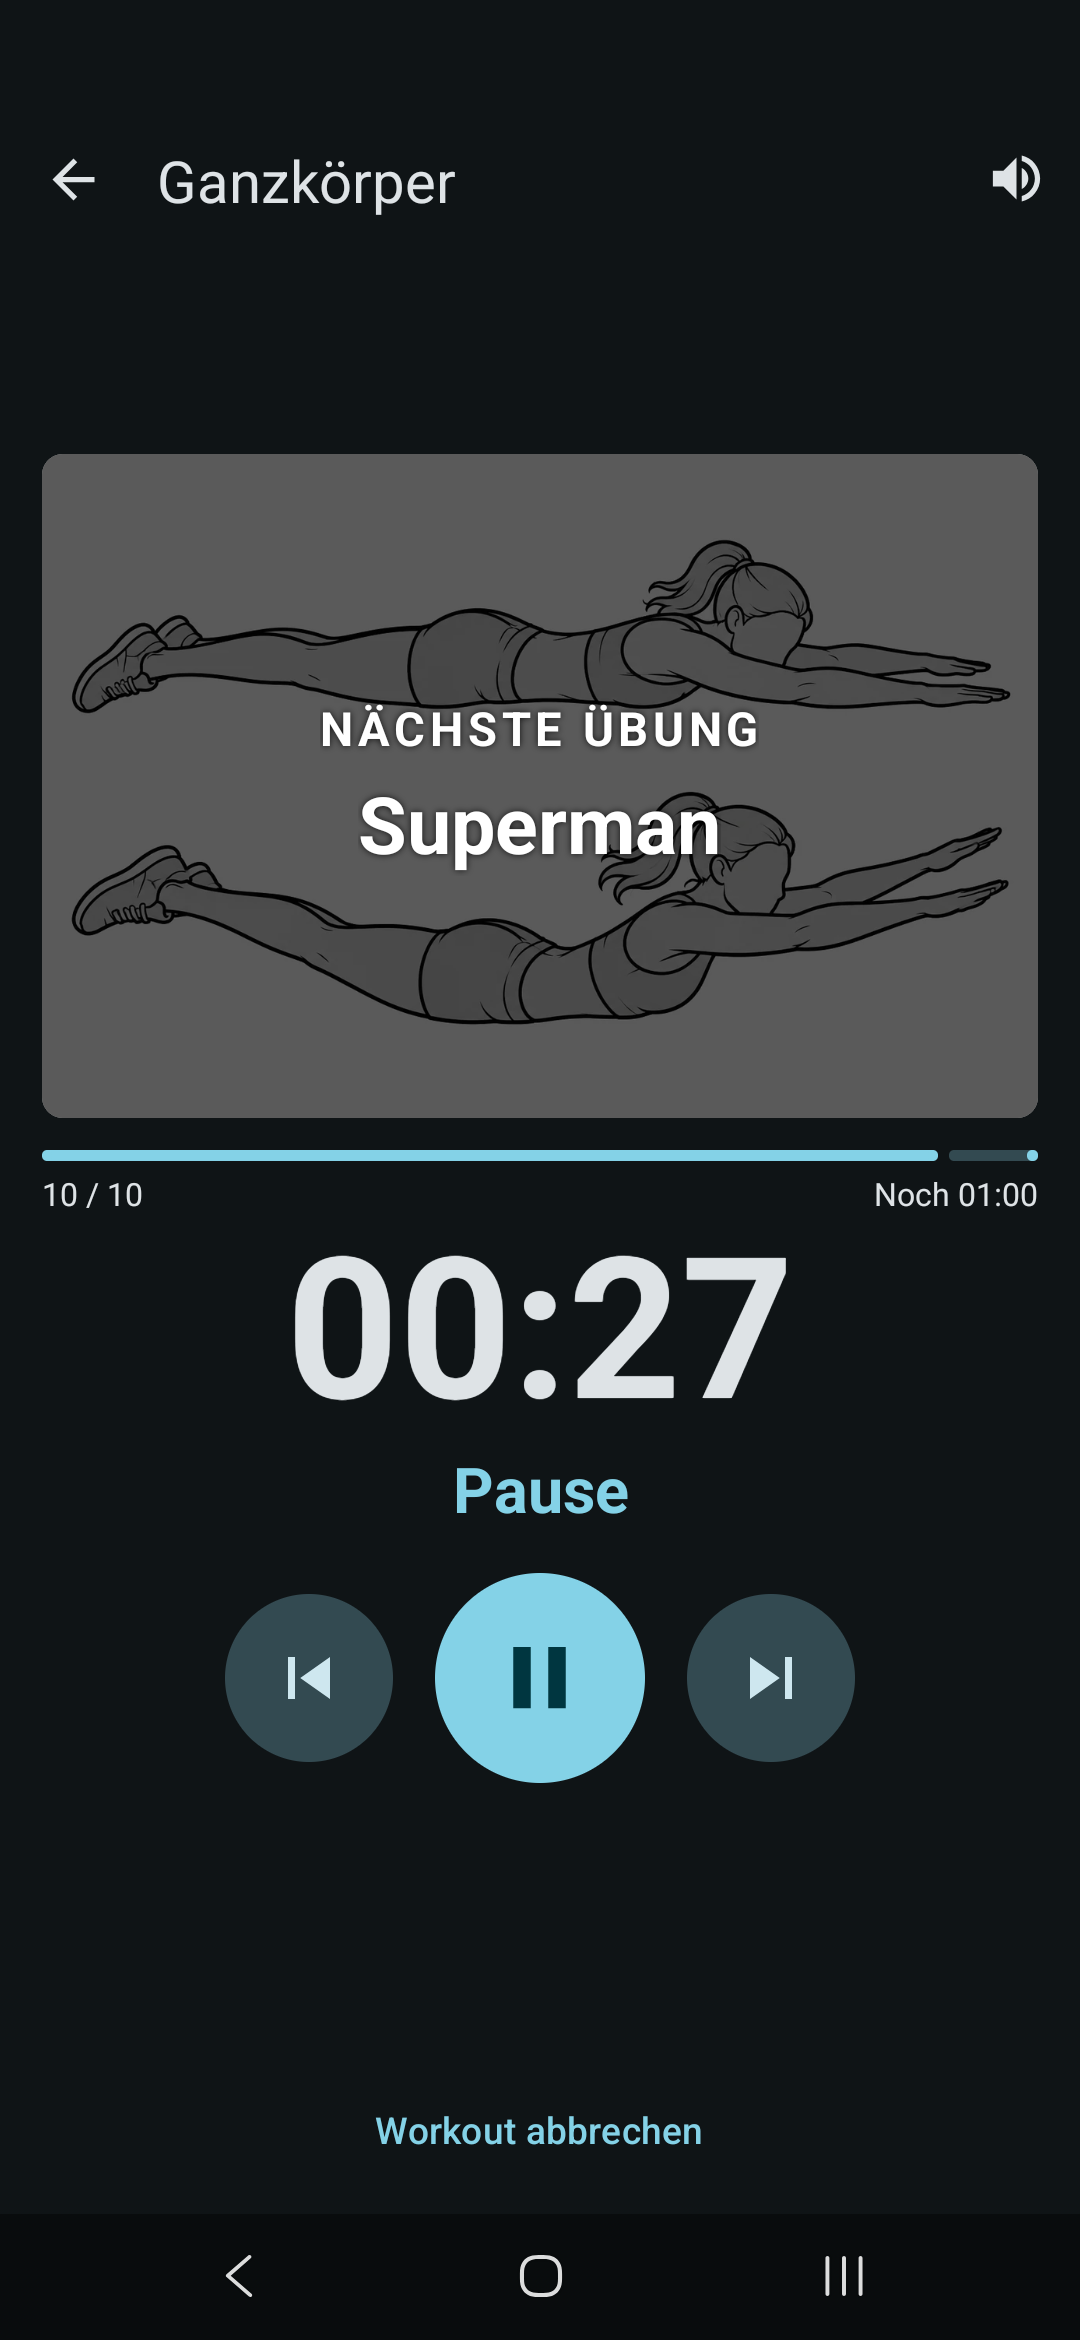
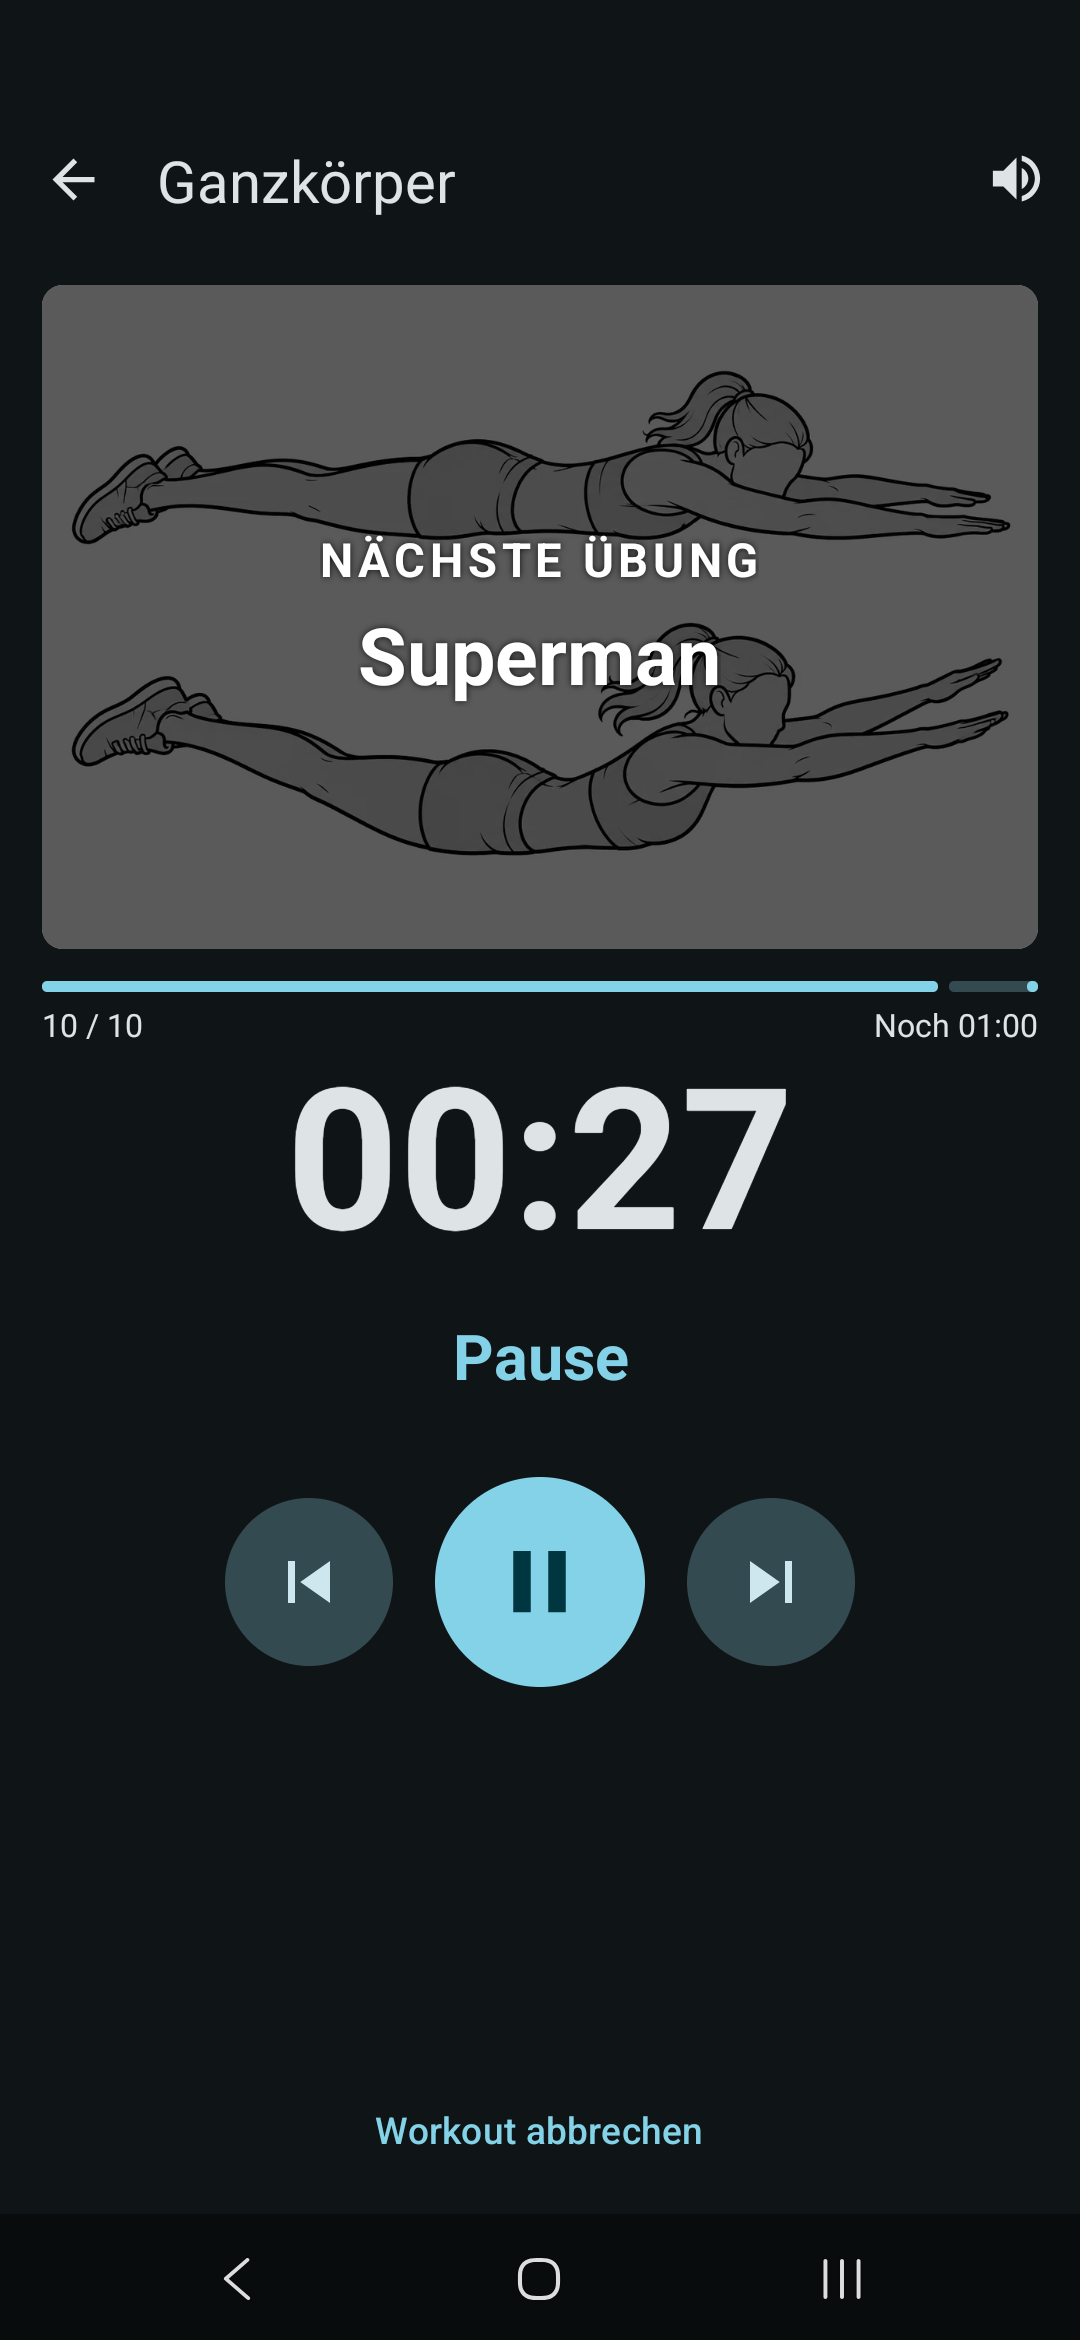
Player: steady layout and tap the picture to pause
The player's content now runs from the top down instead of being centred, so
the picture sits right under the toolbar and the timer, title and buttons keep
their places in every phase; the title always takes two lines and ends a
longer name with an ellipsis. The picture may take up to 55 % of the screen
height. A tap on the picture pauses or resumes wherever the pause button does,
a video included, and the pause or play symbol flashes up as feedback.

Fixes #109

diff --git a/app/src/main/java/com/wob/workout/player/PlayerFragment.java b/app/src/main/java/com/wob/workout/player/PlayerFragment.java
@@ -27,6 +27,8 @@ public class PlayerFragment extends Fragment {
 
     private static final String ARG_WORKOUT_ID = "workout_id";
     private static final String ARG_WORKOUT_NAME = "workout_name";
+    private static final long TAP_FEEDBACK_SHOWN_MILLIS = 300;
+    private static final long TAP_FEEDBACK_FADE_MILLIS = 400;
 
     private FragmentPlayerBinding binding;
     private PlayerViewModel viewModel;
@@ -35,6 +37,8 @@ public class PlayerFragment extends Fragment {
     private MediaController mediaController;
     /** The scene whose picture is on screen, so that a tick doesn't load it again. */
     private int shownScene = -1;
+    /** Whether the session runs, as last shown, so a tap on the picture knows what it does. */
+    private boolean running;
 
     /** While a workout runs, leaving it (back arrow or system back) aborts it, so ask first,
      *  just like "Workout abbrechen". Disabled once it's finished: then back just leaves. */
@@ -88,6 +92,11 @@ public class PlayerFragment extends Fragment {
         binding.btnPause.setOnClickListener(v -> viewModel.togglePause());
         // A larger target than the pause button, for a tap in the middle of an exercise.
         binding.txtTimer.setOnClickListener(v -> viewModel.togglePause());
+        // The largest target of all: the picture, with the symbol flashing up as feedback.
+        binding.mediaTapTarget.setOnClickListener(v -> {
+            flashTapFeedback(running);
+            viewModel.togglePause();
+        });
         binding.btnNext.setOnClickListener(v -> viewModel.next());
         binding.btnPrevious.setOnClickListener(v -> viewModel.previous());
         binding.btnCancel.setOnClickListener(v -> confirmCancelWorkout());
@@ -138,7 +147,9 @@ public class PlayerFragment extends Fragment {
     private void show(PlayerScreen screen) {
         binding.txtProgress.setText(screen.progressText);
         binding.txtTimer.setText(screen.timerText);
-        binding.txtTimer.setClickable(screen.timerTappable);
+        binding.txtTimer.setClickable(screen.tapPauses);
+        binding.mediaTapTarget.setClickable(screen.tapPauses);
+        running = screen.pauseButtonShowsPause;
 
         int previewVisibility = screen.mediaLabel != null ? View.VISIBLE : View.GONE;
         binding.mediaScrim.setVisibility(previewVisibility);
@@ -176,6 +187,16 @@ public class PlayerFragment extends Fragment {
                 mediaController.hide();
             }
         }
+    }
+
+    /** Flashes ❚❚ when a tap pauses, ▶ when it resumes.
+     *  @param running whether the session was running before the tap */
+    private void flashTapFeedback(boolean running) {
+        binding.imgTapFeedback.setImageResource(running ? R.drawable.ic_pause : R.drawable.ic_play);
+        binding.imgTapFeedback.animate().cancel();
+        binding.imgTapFeedback.setAlpha(1f);
+        binding.imgTapFeedback.animate().alpha(0f).setStartDelay(TAP_FEEDBACK_SHOWN_MILLIS)
+                .setDuration(TAP_FEEDBACK_FADE_MILLIS).start();
     }
 
     /** The speaker shows the current state; its label says what a tap does. */

diff --git a/app/src/main/java/com/wob/workout/player/PlayerScreen.java b/app/src/main/java/com/wob/workout/player/PlayerScreen.java
@@ -19,8 +19,8 @@ public final class PlayerScreen {
     public final String progressText;
     /** E.g. "Start in 3", "00:48", or the active time once finished. */
     public final String timerText;
-    /** Whether tapping the timer pauses or resumes. */
-    public final boolean timerTappable;
+    /** Whether tapping the timer or the picture pauses or resumes. */
+    public final boolean tapPauses;
     /** Over the picture while it only previews the coming exercise; null otherwise. */
     public final String mediaLabel;
     public final String mediaTitle;
@@ -40,7 +40,7 @@ public final class PlayerScreen {
     public final boolean finished;
 
     private PlayerScreen(int scene, Exercise exercise, String progressText, String timerText,
-                         boolean timerTappable, String mediaLabel, String mediaTitle,
+                         boolean tapPauses, String mediaLabel, String mediaTitle,
                          String title, String description, boolean descriptionCentered,
                          boolean previousEnabled, boolean nextEnabled,
                          boolean pauseButtonShowsPause, String workoutRemainingText,
@@ -49,7 +49,7 @@ public final class PlayerScreen {
         this.exercise = exercise;
         this.progressText = progressText;
         this.timerText = timerText;
-        this.timerTappable = timerTappable;
+        this.tapPauses = tapPauses;
         this.mediaLabel = mediaLabel;
         this.mediaTitle = mediaTitle;
         this.title = title;

diff --git a/app/src/test/java/com/wob/workout/player/PlayerScreenTest.java b/app/src/test/java/com/wob/workout/player/PlayerScreenTest.java
@@ -73,7 +73,7 @@ public class PlayerScreenTest {
         assertEquals("Pause", running.pauseButtonLabel);
         assertFalse(paused.pauseButtonShowsPause);
         assertEquals("Weiter", paused.pauseButtonLabel);
-        assertTrue(paused.timerTappable);
+        assertTrue(paused.tapPauses);
     }
 
     @Test
@@ -99,7 +99,7 @@ public class PlayerScreenTest {
         assertTrue(screen.descriptionCentered);
         assertNull(screen.exercise);
         assertNull(screen.mediaLabel);
-        assertFalse(screen.timerTappable);
+        assertFalse(screen.tapPauses);
         assertFalse(screen.previousEnabled);
         assertFalse(screen.nextEnabled);
     }
@@ -114,7 +114,7 @@ public class PlayerScreenTest {
         assertEquals("Push-up", screen.mediaTitle);
         assertSame(PUSH_UP.exercise, screen.exercise);
         assertEquals("", screen.description);
-        assertTrue(screen.timerTappable);
+        assertTrue(screen.tapPauses);
     }
 
     @Test
@@ -125,6 +125,14 @@ public class PlayerScreenTest {
 
         assertEquals("02:00", screen.timerText);
         assertEquals("Alle 3 Übungen erledigt\nPausen: 1:30", screen.description);
+    }
+
+    @Test
+    public void aTapPausesInEveryPhaseThatCanPause() {
+        for (Phase phase : new Phase[] {Phase.READY, Phase.ACTIVE, Phase.TRANSITION,
+                Phase.REST}) {
+            assertTrue(phase.name(), PlayerScreen.of(state(phase, 1, 2000, true)).tapPauses);
+        }
     }
 
     @Test

diff --git a/app/src/main/java/com/wob/workout/media/PictureFrameLayout.java b/app/src/main/java/com/wob/workout/media/PictureFrameLayout.java
@@ -16,7 +16,7 @@ public class PictureFrameLayout extends FrameLayout {
 
     static final int RATIO_WIDTH = 3;
     static final int RATIO_HEIGHT = 2;
-    private static final float MAX_SHARE_OF_SCREEN_HEIGHT = 0.45f;
+    private static final float MAX_SHARE_OF_SCREEN_HEIGHT = 0.55f;
     private static final int CORNER_RADIUS_DP = 8;
 
     public PictureFrameLayout(Context context, AttributeSet attrs) {
